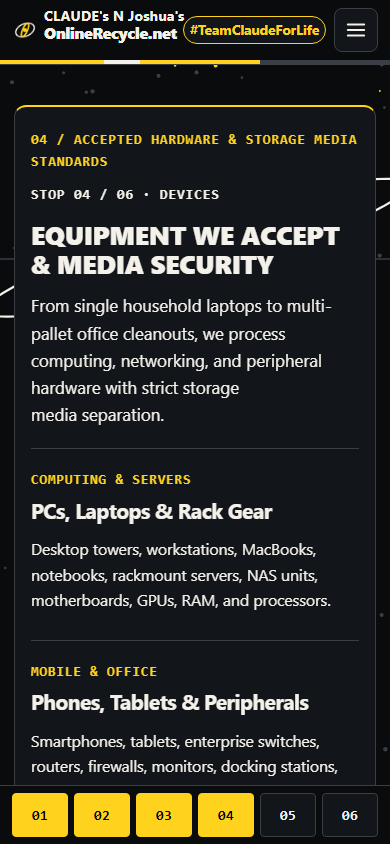
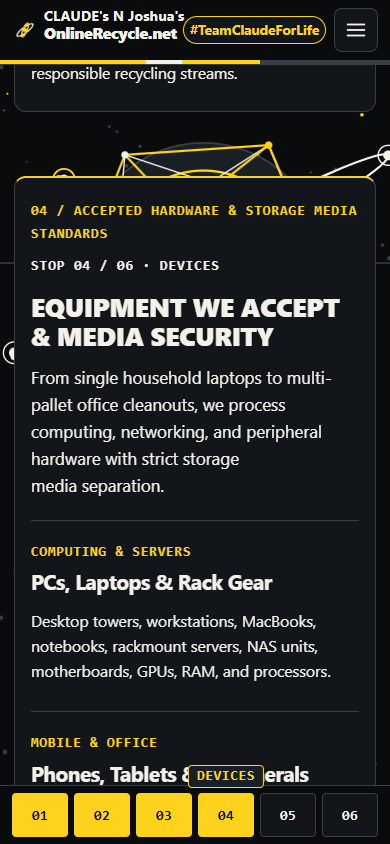
onlinerecycle: add game systems, digital media, and home and car audio to accepted gear

diff --git a/domains/onlinerecycle.net/site/index.html b/domains/onlinerecycle.net/site/index.html
@@ -7,7 +7,7 @@
     <title>CLAUDE's N Joshua's — OnlineRecycle.net | Florida Electronics Recycling & Free Pickup</title>
     <meta
       name="description"
-      content="Central Florida electronics recycling with free drop-off and pickup, secure device handling, and direct Google Calendar scheduling for homes and small businesses."
+      content="Central Florida electronics recycling with free drop-off in Sorrento and scheduled pickup. We accept computers, game systems, game consoles, games, game and movie discs, DVDs, Blu-rays, and home and car stereo equipment."
     />
     <meta
       name="keywords"
@@ -634,6 +634,34 @@
                 before any chassis refurbishment.
               </p>
             </div>
+            <div class="card">
+              <div class="metric-label">GAME SYSTEMS</div>
+              <h3 style="margin-top: 8px">Game Systems</h3>
+              <p>
+                Consoles and handhelds, controllers, cables and accessories.
+              </p>
+            </div>
+            <div class="card">
+              <div class="metric-label">DIGITAL MEDIA</div>
+              <h3 style="margin-top: 8px">Digital Media</h3>
+              <p>
+                Game discs and cartridges, DVDs, Blu-rays and CDs.
+              </p>
+            </div>
+            <div class="card">
+              <div class="metric-label">HOME AUDIO</div>
+              <h3 style="margin-top: 8px">Home Audio</h3>
+              <p>
+                Receivers, amplifiers, speakers, soundbars and home stereo systems.
+              </p>
+            </div>
+            <div class="card">
+              <div class="metric-label">CAR AUDIO</div>
+              <h3 style="margin-top: 8px">Car Audio</h3>
+              <p>
+                Head units and car stereos, amplifiers and subwoofers.
+              </p>
+            </div>
           </div>
 
           <div class="cta-wrap">
@@ -690,6 +718,15 @@
                 We accept computers, laptops, servers, networking gear, phones, tablets, printers, gaming consoles,
                 cables, batteries, and most other consumer or office electronics. If it plugs in or has a battery, book
                 a slot or ask&nbsp;us.
+              </p>
+            </div>
+          </div>
+
+          <div class="faq-item" itemscope itemprop="mainEntity" itemtype="https://schema.org/Question">
+            <div class="faq-question" itemprop="name">Do you take game consoles, games, DVDs and stereos?</div>
+            <div class="faq-answer" itemscope itemprop="acceptedAnswer" itemtype="https://schema.org/Answer">
+              <p itemprop="text">
+                Yes. We accept game consoles, handhelds, video games, movie discs, DVDs, Blu-rays, CDs, and home and car stereo equipment. You can bring them for drop-off in Sorrento or book a scheduled pickup through our calendar.
               </p>
             </div>
           </div>
